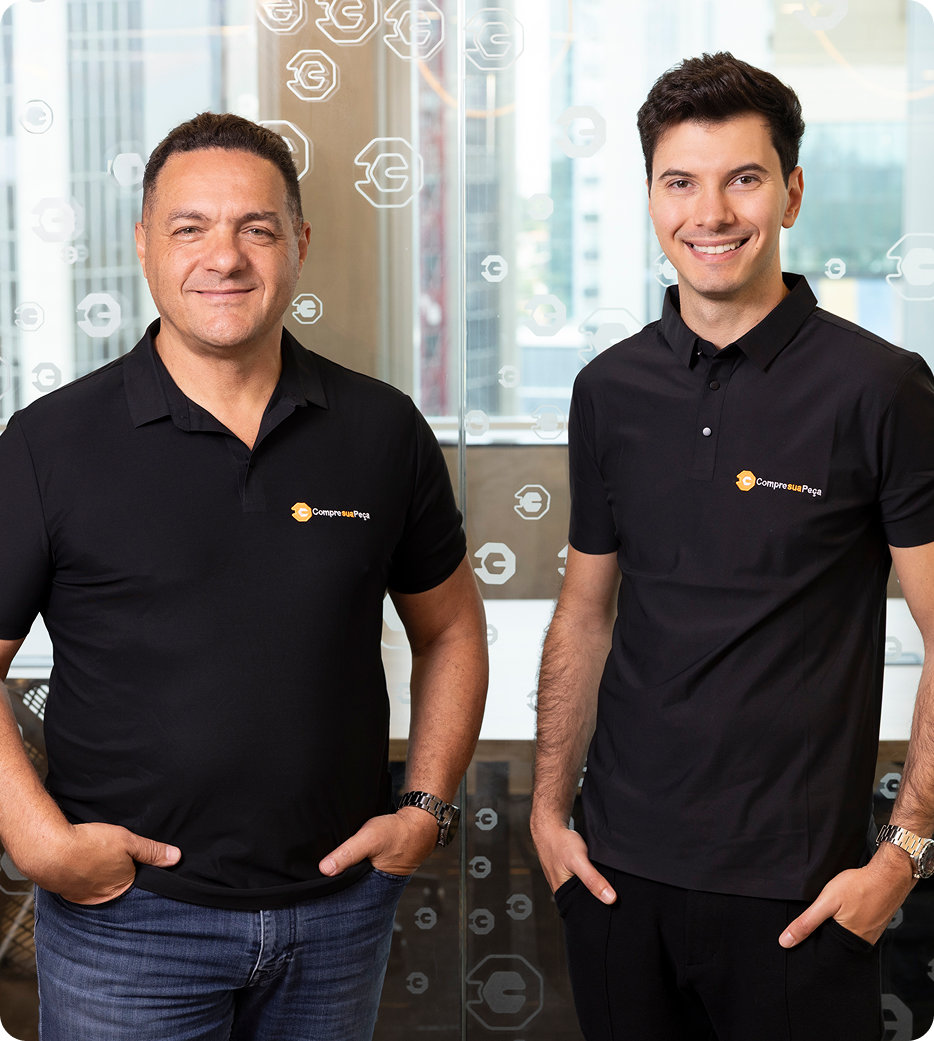
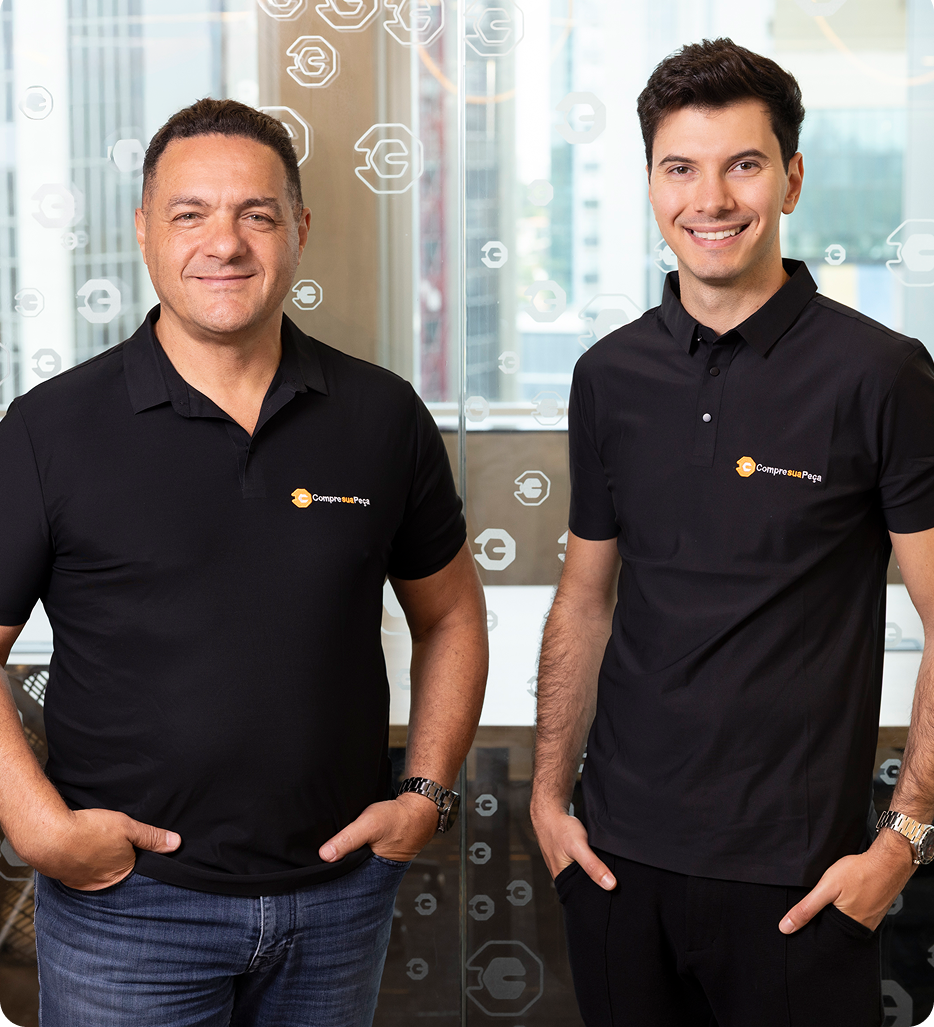
feat: develop future and solutions sections and improve UI design

diff --git a/app/components/hero.tsx b/app/components/hero.tsx
@@ -5,52 +5,68 @@ import { FaCircleCheck } from "react-icons/fa6";
 import { MdArrowOutward } from "react-icons/md";
 
 export function Hero() {
-  return (
-    <section className="relative flex w-full rounded-xl mx-auto justify-center items-center bg-gradient-hero  overflow-hidden ">
+    return (
+        <section className="grid grid-cols-2 w-full px-4  overflow-hidden gap-1 ">
 
-      {/* <div className="absolute inset-0 opacity-20 bg-[radial-gradient(circle_at_20%_30%,white,transparent_40%)] rounded-lg" /> */}
-        <div className="text-brand-foreground w-full h-full ">
+            {/* <div className="absolute inset-0 opacity-20 bg-[radial-gradient(circle_at_20%_30%,white,transparent_40%)] rounded-lg" /> */}
+            <div className="bg-gradient-hero text-brand-foreground flex flex-col justify-center p-12 rounded-b-3xl">
 
-          <span className="inline-flex  gap-2 rounded-full bg-white/10 backdrop-blur px-4 py-1.5 text-xs font-medium border border-white/15">
-            <FaCircleCheck className="h-3.5 w-3.5 text-blue-500" /> Plataforma #1 do setor
-          </span>
-          <h1 className="mt-4 font-display text-5xl font-bold leading-[1.05] whitespace-nowrap">
-            Somos quem impulsiona o{" "}<br />
-            <span className="text-gradient-cta whitespace-nowrap">Mercado Automotivo</span><br /> no digital
-          </h1>
+                <span className="inline-flex gap-2 rounded-full bg-white/10 backdrop-blur px-4 py-1.5 text-xs font-medium border border-white/15 w-fit">
+                    <FaCircleCheck className="h-3.5 w-3.5 text-blue-500" />
+                    Plataforma #1 do setor
+                </span>
 
-          <h2 className="mt-5 text-2xl text-brand-foreground/80 max-w-lg">
-            O futuro do seu negócio está no digital
-          </h2>
+                <h1 className="mt-4 font-display text-4xl font-bold leading-[1.05] whitespace-nowrap">
+                    Somos quem impulsiona o <br />
+                    <span className="text-gradient-cta">
+                        Mercado Automotivo
+                    </span>
+                    <br />
+                    no digital
+                </h1>
 
-          <h3 className="mt-5 text-sm text-brand-foreground/80 max-w-lg">
-            AUTOPEÇAS | DISTRIBUIDORAS | CONCESSIONÁRIAS | FÁBRICAS
-          </h3>
+                <h2 className="mt-5 text-2xl text-brand-foreground/80 max-w-lg">
+                    O futuro do seu negócio está no digital
+                </h2>
+
+                <h3 className="mt-5 text-sm text-brand-foreground/80 max-w-lg">
+                    AUTOPEÇAS | DISTRIBUIDORAS | CONCESSIONÁRIAS | FÁBRICAS
+                </h3>
+
+                <div className="mt-8 flex flex-wrap gap-3">
+                    <Button
+                        size="lg"
+                        className="bg-gradient-cta text-cta-foreground hover:opacity-90 rounded-full px-7 h-12"
+                    >
+                        Impulsione agora
+                        <MdArrowOutward className="ml-1 h-4 w-4" />
+                    </Button>
+                </div>
+
+                <div className="mt-10 flex py-2 items-center border-t w-3/4 justify-start border-gray-500">
+                    <img src="/digital.png" alt="digital" />
+                    <span className=" flex flex-col text-xl">
+                        Conheça soluções
+                        <span className="text-xs text-brand-foreground/90 font-light"> para impulsionar o seu negócio</span> 
+                      </span>
+                    
+                    
 
 
-          <div className="mt-8 flex flex-wrap gap-3">
-            <Button size="lg" className="bg-gradient-cta text-cta-foreground hover:opacity-90 rounded-full px-7 h-12">
-              Inpulsione agora <MdArrowOutward className="ml-1 h-4 w-4" />
-            </Button>
-          </div>
-        </div>
-        
-      <div className="relative flex w-full px-6 gap-2 items-center ">
+                </div>
+            </div>
 
-        <div className="relative">
-
-          <div className="absolute -inset-6 bg-gradient-cta rounded-b-3xl blur-3xl opacity-30" />
-          <img
-            src="/carrossel1.png"
-            alt="Fundadores AutoBoost"
-            width={1024}
-            height={768}
-            className="relative rounded-b-xl shadow-glow object-cover w-full h-full"
-          /> 
+            <div className="relative h-full">
+                <img
+                    src="/carrossel1.png"
+                    alt="Fundadores AutoBoost"
+                    className="w-full h-full object-cover rounded-b-3xl"
+                />
+            </div>
 
 
-        </div>
-      </div>
-    </section>
-  );
+
+
+        </section>
+    );
 }

diff --git a/app/components/futureSection.tsx b/app/components/futureSection.tsx
@@ -1,0 +1,70 @@
+
+const items = [
+    { icon: "/icons/money-icon.svg", strong: "Digitalize", text: "seu negócio" },
+    { icon: "/icons/grafic-icon.svg", strong: "Escale", text: "suas operações" },
+    { icon: "/icons/potencialize-icon.svg", strong: "Potencializar", text: "suas vendas" },
+];
+
+export function FutureSection() {
+    return (
+        <section className="pt-10 pb-5">
+            <div className="flex gap-5  max-w-5xl items-center mx-auto ">
+                <span className="inline-block rounded-full bg-purple-100 border border-purple-200 text-purple-700 px-4 py-1 text-xs font-semibold">
+                    Plataforma
+                </span>
+                <img src="/elements/linhas.layout.svg" alt="linhas" className="flex-1" />
+            </div>
+
+            <div className="mx-auto max-w-3/4 grid grid-cols-[1.5fr_0.90fr] gap-8 items-start ">
+
+                <div className="mx-auto">
+                    <div>
+                        <h2 className="mt-8 font-display text-3xl font-semibold leading-tight">
+                            O futuro do seu negócio está a um{" "}
+
+                            <span className="inline-flex items-center gap-2 whitespace-nowrap">
+                                <span className="text-purple-700">clique</span>
+                                de distância
+
+                                <img
+                                    src="/icons/click-icon.svg"
+                                    alt="click-icon"
+                                    className="h-8 w-8 shrink-0"
+                                />
+                            </span>
+                        </h2>
+                    </div>
+
+                    <ul className="mt-8 space-y-4 items-end">
+                        {items.map((it) => (
+                            <li key={it.strong} className="grid grid-cols-[44px_1fr] gap-6 p-4 bg-gray-100 rounded-xl w-full items-center">
+                                <div className="h-11 w-11 shrink-0 rounded-xl grid place-items-center text-purple-700">
+                                    <img
+                                        src={it.icon}
+                                        alt=""
+                                        className="h-8 w-8"
+                                    />
+                                </div>
+
+                                <p className="text-center flex-1">
+                                    <span className="font-semibold ">{it.strong}</span>
+                                    {" "}
+                                    {it.text}
+                                </p>
+
+                            </li>
+                        ))}
+                    </ul>
+
+                </div>
+
+
+                <div className="justify-center items-end py-10">
+                    <img src="/image-future-section.png" alt="Operação automotiva" loading="lazy"
+                        className="w-full h-full" />
+
+                </div>
+            </div>
+        </section>
+    );
+}

diff --git a/app/components/SolutionsSection.tsx b/app/components/SolutionsSection.tsx
@@ -1,0 +1,58 @@
+const benefits = [
+    { title: "Cadastro de produtos automático", desc: "Automatize o cadastro de produtos e ganhe velocidade na publicação de seus anúncios.", link: "www.outralpcompresuapeca.com.br" },
+    { title: "Impulsione suas vendas on-line", desc: "Estratégias e otimização para impulsionar seus anúncios e acelerar suas vendas online.", link: "www.outralpcompresuapeca.com.br" },
+    { title: "Venda sem precisar de estoque", desc: "Amplie todo seu catálogo e venda mais, sem precisar de estoque próprio", link: "www.outralpcompresuapeca.com.br" },
+    { title: "Conecte todo seu catálogo com todos os Marketplaces de uma vez", desc: "Ferramentas de integração que conecta sua operação aos marketplaces", link: "www.outralpcompresuapeca.com.br" },
+    { title: "Controle todas as operações em só lugar", desc: "O ecossista de soluções para o mercado automotivo Plataforma do Compre Sua Peça que reúne soluções digitais para integração", link: "www.outralpcompresuapeca.com.br" }
+];
+
+export function SolutionsSection() {
+    return (
+        <section id="soluções" className="py-5">
+
+            <div className="mx-auto max-w-5xl  rounded-3xl py-5 bg-gray-100">
+
+                <h1 className="text-center font-display text-3xl font-semibold max-w-3/4 mx-auto mt-10">
+                    Conheça as soluções que <span className="font-bold">mudam</span>  o nível do seu negócio
+                </h1>
+
+                <div className="mt-8 w-[90%] grid grid-cols-[0.90fr_1fr] gap-1 mx-auto ">
+
+                    <div className="h-full">
+                        <img
+                            src="/carrossel-solucoes-1.svg"
+                            alt=""
+                            className="h-full w-full object-cover rounded-3xl"
+                        />
+                    </div>
+
+                    <div className="bg-card rounded-3xl pl-5 shadow-card">
+                        <ul className=" space-y-5">
+                            {benefits.map((b) => (
+                                <li key={b.title} className="relative flex gap-3">
+                                    <div
+                                        className="absolute left-0 top-0 h-full w-2 rounded-full bg-purple-700">
+                                    </div>
+
+
+                                    <div className=" px-5">
+                                        <div className="font-semibold text-lg">{b.title}</div>
+                                        <div className=" text-sm text-muted-foreground">{b.desc}</div>
+                                        <a href={b.link} className="text-xs text-blue-600 ">{b.link}</a>
+                                    </div>
+                                </li>
+                            ))}
+                        </ul>
+
+                    </div>
+
+                </div>
+
+            </div>
+
+            <div>
+
+            </div>
+        </section>
+    );
+}

diff --git a/app/components/nav.tsx b/app/components/nav.tsx
@@ -5,7 +5,7 @@ export function Navbar() {
   return (
     <header className=" absolute w-full h-[5rem] items-center top-0 left-0 right-0 z-50">
 
-      <div className=" mt-2 mx-auto w-[60%] h-12 px-6 py-5 flex items-center justify-between gap-2 bg-white rounded-xl">
+      <div className=" mt-0 mx-auto w-[65%] h-14 px-6 py-5 flex items-center justify-between gap-2 bg-white rounded-xl shadow-gray-600 shadow-xl">
 
         <a href="#" className="flex items-center gap-2 text-brand-foreground font-display font-bold text-xl">
             <img src="/logo-csp.png" 
@@ -13,7 +13,7 @@ export function Navbar() {
             className=""
              />
         </a>
-        <nav className="flex items-center gap-2 text-sm text-gray-600 whitespace-nowrap">
+        <nav className="flex items-center gap-4 text-sm text-gray-600 whitespace-nowrap">
           {links.map((l) => (
             <a key={l} href={`#${l.toLowerCase()}`} className="hover:text-brand-foreground transition">{l}</a>
           ))}

diff --git a/app/page.tsx b/app/page.tsx
@@ -1,11 +1,15 @@
+import { FutureSection } from "./components/futureSection";
 import { Hero } from "./components/hero";
 import { Navbar } from "./components/nav";
+import { SolutionsSection } from "./components/SolutionsSection";
 
 export default function Home() {
   return (
     <main className="min-h-screen bg-white">
         <Navbar/>
         <Hero/>
+        <FutureSection/>
+        <SolutionsSection/>
 
 
     </main>